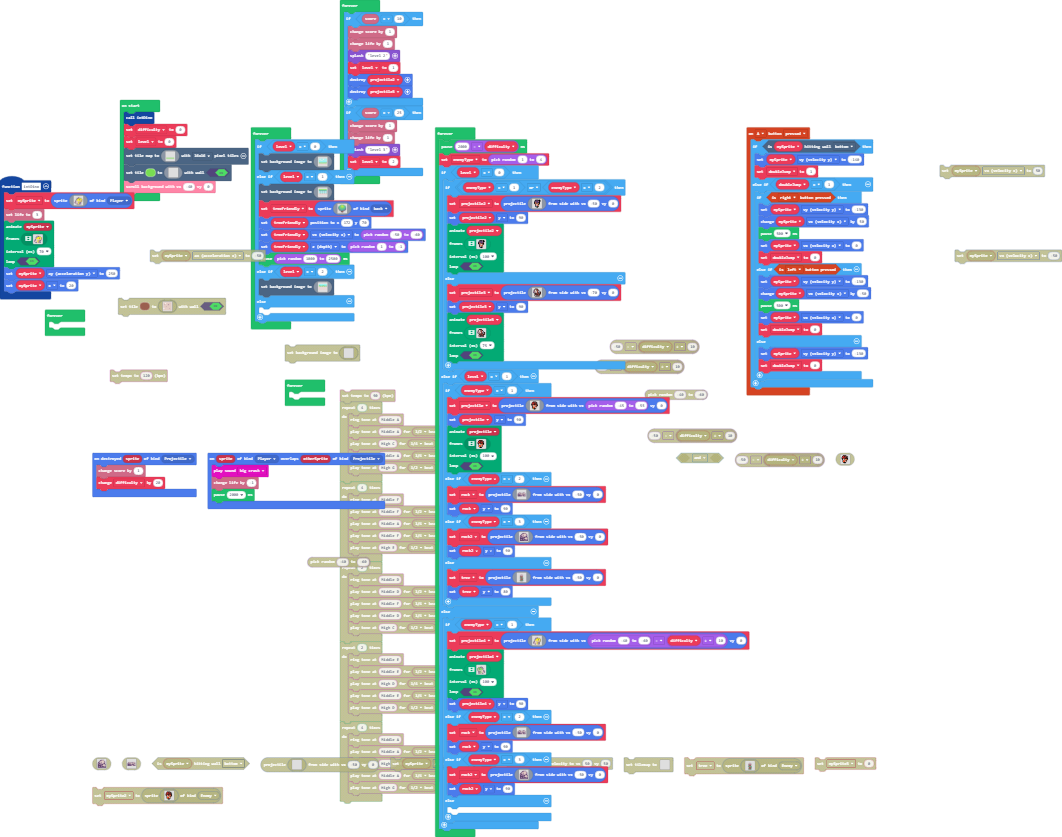
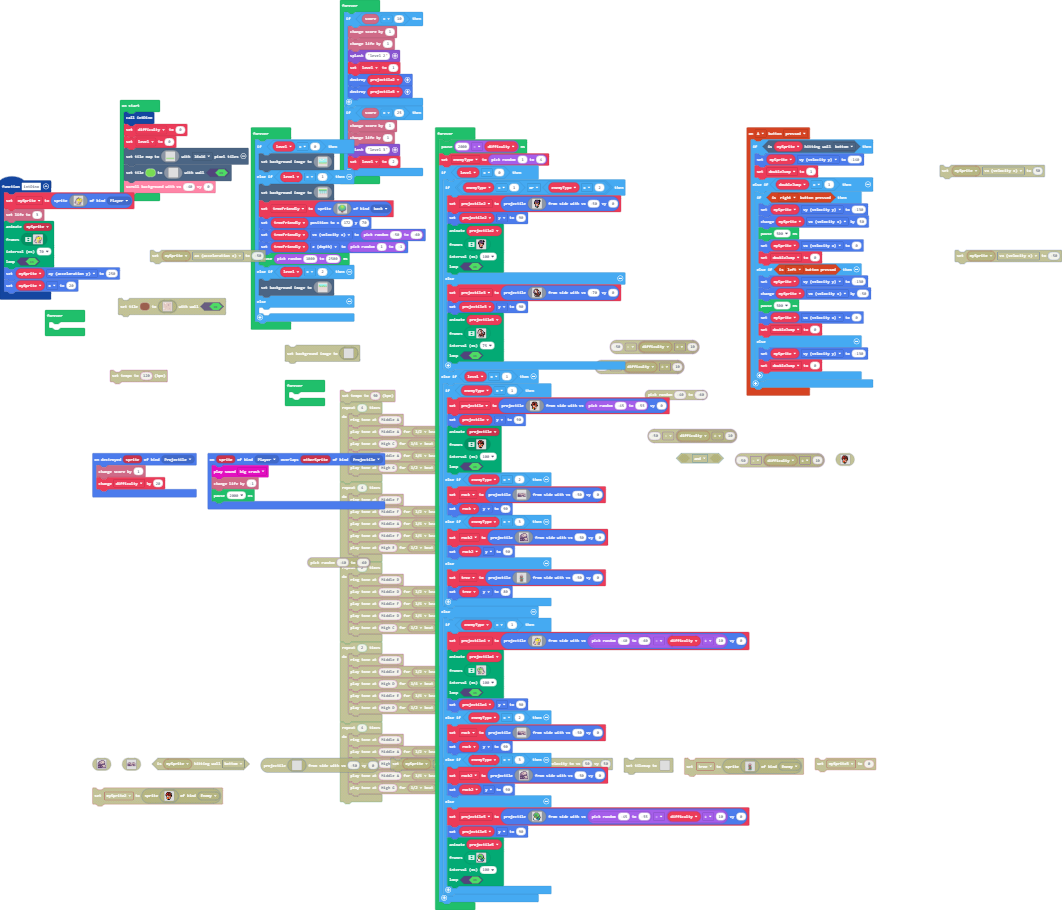
Update main.blocks, main.ts

Changed region(s): [[0.0, 0.0, 0.839, 0.994], [0.9011, 0.2485, 1.0, 0.3106], [0.8701, 0.1553, 0.9944, 0.2174]]

diff --git a/main.ts b/main.ts
@@ -220,6 +220,7 @@ sprites.onDestroyed(SpriteKind.Projectile, function (sprite) {
     info.changeScoreBy(1)
     difficulty += 20
 })
+let projectile5: Sprite = null
 let projectile4: Sprite = null
 let tree: Sprite = null
 let rock2: Sprite = null
@@ -1322,7 +1323,65 @@ forever(function () {
                 `, -50, 0)
             rock2.y = 90
         } else {
-        	
+            projectile5 = sprites.createProjectileFromSide(img`
+                . . . . c c c c c c . . . . . . 
+                . . . c 6 7 7 7 7 6 c . . . . . 
+                . . c 7 7 7 7 7 7 7 7 c . . . . 
+                . c 6 7 7 7 7 7 7 7 7 6 c . . . 
+                . c 7 c 6 6 6 6 c 7 7 7 c . . . 
+                . f 7 6 f 6 6 f 6 7 7 7 f . . . 
+                . f 7 7 7 7 7 7 7 7 7 7 f . . . 
+                . . f 7 7 7 7 6 c 7 7 6 f c . . 
+                . . . f c c c c 7 7 6 f 7 7 c . 
+                . . c 7 2 7 7 7 6 c f 7 7 7 7 c 
+                . c 7 7 2 7 7 c f c 6 7 7 6 c c 
+                c 1 1 1 1 7 6 f c c 6 6 6 c . . 
+                f 1 1 1 1 1 6 6 c 6 6 6 6 f . . 
+                f 6 1 1 1 1 1 6 6 6 6 6 c f . . 
+                . f 6 1 1 1 1 1 1 6 6 6 f . . . 
+                . . c c c c c c c c c f . . . . 
+                `, randint(-45, -55) - difficulty / 10, 0)
+            projectile5.y = 90
+            animation.runImageAnimation(
+            projectile5,
+            [img`
+                . . . . c c c c c c . . . . . . 
+                . . . c 6 7 7 7 7 6 c . . . . . 
+                . . c 7 7 7 7 7 7 7 7 c . . . . 
+                . c 6 7 7 7 7 7 7 7 7 6 c . . . 
+                . c 7 c 6 6 6 6 c 7 7 7 c . . . 
+                . f 7 6 f 6 6 f 6 7 7 7 f . . . 
+                . f 7 7 7 7 7 7 7 7 7 7 f . . . 
+                . . f 7 7 7 7 6 c 7 7 6 f c . . 
+                . . . f c c c c 7 7 6 f 7 7 c . 
+                . . c 7 2 7 7 7 6 c f 7 7 7 7 c 
+                . c 7 7 2 7 7 c f c 6 7 7 6 c c 
+                c 1 1 1 1 7 6 f c c 6 6 6 c . . 
+                f 1 1 1 1 1 6 6 c 6 6 6 6 f . . 
+                f 6 1 1 1 1 1 6 6 6 6 6 c f . . 
+                . f 6 1 1 1 1 1 1 6 6 6 f . . . 
+                . . c c c c c c c c c f . . . . 
+                `,img`
+                . . . c c c c c c . . . . . . . 
+                . . c 6 7 7 7 7 6 c . . . . . . 
+                . c 7 7 7 7 7 7 7 7 c . . . . . 
+                c 6 7 7 7 7 7 7 7 7 6 c . . . . 
+                c 7 c 6 6 6 6 c 7 7 7 c . . . . 
+                f 7 6 f 6 6 f 6 7 7 7 f . . . . 
+                f 7 7 7 7 7 7 7 7 7 7 f . . . . 
+                . f 7 7 7 7 6 c 7 7 6 f . . . . 
+                . . f c c c c 7 7 6 f c c c . . 
+                . . c 6 2 7 7 7 f c c 7 7 7 c . 
+                . c 6 7 7 2 7 7 c f 6 7 7 7 7 c 
+                . c 1 1 1 1 7 6 6 c 6 6 6 c c c 
+                . c 1 1 1 1 1 6 6 6 6 6 6 c . . 
+                . c 6 1 1 1 1 1 6 6 6 6 6 c . . 
+                . . c 6 1 1 1 1 1 7 6 6 c c . . 
+                . . . c c c c c c c c c c . . . 
+                `],
+            100,
+            true
+            )
         }
     }
 })
